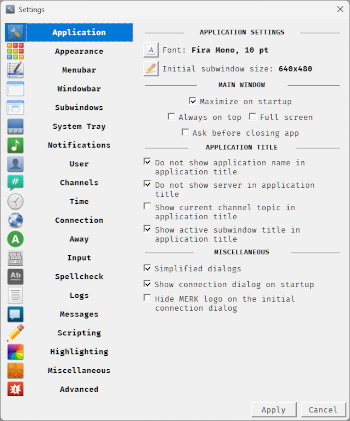
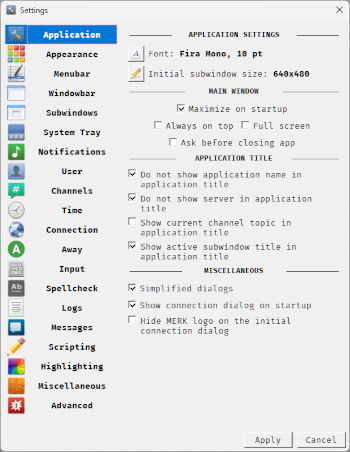
Tweaks to settings dialog

diff --git a/README.html b/README.html
@@ -1,4 +1,4 @@
-<h1>MERK 0.050.714</h1>
+<h1>MERK 0.050.715</h1>
 
 <p><a href="https://github.com/nutjob-laboratories/merk">Official source code repository</a></p>
 <h1 id="table-of-contents">Table of contents</h1>
@@ -14,7 +14,7 @@
 <li><a href="#does-merk-need-any-help">Does MERK need any help?</a></li>
 </ul>
 <h1 id="summary">Summary</h1>
-<p><strong>MERK</strong> is a graphical <a href="https://www.gnu.org/licenses/gpl-3.0.en.html">open source</a> <a href="https://en.wikipedia.org/wiki/Internet_Relay_Chat">Internet relay chat</a> client. The current development version is <strong>0.050.714</strong>. It uses a <a href="https://en.wikipedia.org/wiki/Multiple-document_interface">multiple-document interface</a>, much like the popular Windows IRC client <a href="https://www.mirc.com/">mIRC</a>.  <strong>MERK</strong> is written in Python 3, using the <a href="https://pypi.org/project/PyQt5/">PyQt5</a> and <a href="https://twistedmatrix.com/trac/">Twisted</a> libraries, and runs on both Windows and Linux. <strong>MERK</strong> is updated frequently with new features and bugfixes.</p>
+<p><strong>MERK</strong> is a graphical <a href="https://www.gnu.org/licenses/gpl-3.0.en.html">open source</a> <a href="https://en.wikipedia.org/wiki/Internet_Relay_Chat">Internet relay chat</a> client. The current development version is <strong>0.050.715</strong>. It uses a <a href="https://en.wikipedia.org/wiki/Multiple-document_interface">multiple-document interface</a>, much like the popular Windows IRC client <a href="https://www.mirc.com/">mIRC</a>.  <strong>MERK</strong> is written in Python 3, using the <a href="https://pypi.org/project/PyQt5/">PyQt5</a> and <a href="https://twistedmatrix.com/trac/">Twisted</a> libraries, and runs on both Windows and Linux. <strong>MERK</strong> is updated frequently with new features and bugfixes.</p>
 <p><strong>MERK</strong> is still in development, but it works, and can be used for most IRC activities.</p>
 <p>Join me on the official <strong>MERK</strong> IRC channel, <strong>#merk</strong> on the Libera Chat network! Connect to  Libera in the client as one of the built-in server suggestions, or at <strong>irc.libera.chat</strong>, port <strong>6667</strong> (you can also connect via SSL on port <strong>6697</strong>). Honestly, I work a lot, so I&#39;m almost always idle, but I pop in and chat a few times a day!</p>
 <h1 id="making-merk-portable-on-windows">Making MERK Portable on Windows</h1>

diff --git a/merk/resources/README.html b/merk/resources/README.html
@@ -1,4 +1,4 @@
-<h1>MERK 0.050.714</h1>
+<h1>MERK 0.050.715</h1>
 
 <p><a href="https://github.com/nutjob-laboratories/merk">Official source code repository</a></p>
 <h1 id="table-of-contents">Table of contents</h1>
@@ -14,7 +14,7 @@
 <li><a href="#does-merk-need-any-help">Does MERK need any help?</a></li>
 </ul>
 <h1 id="summary">Summary</h1>
-<p><strong>MERK</strong> is a graphical <a href="https://www.gnu.org/licenses/gpl-3.0.en.html">open source</a> <a href="https://en.wikipedia.org/wiki/Internet_Relay_Chat">Internet relay chat</a> client. The current development version is <strong>0.050.714</strong>. It uses a <a href="https://en.wikipedia.org/wiki/Multiple-document_interface">multiple-document interface</a>, much like the popular Windows IRC client <a href="https://www.mirc.com/">mIRC</a>.  <strong>MERK</strong> is written in Python 3, using the <a href="https://pypi.org/project/PyQt5/">PyQt5</a> and <a href="https://twistedmatrix.com/trac/">Twisted</a> libraries, and runs on both Windows and Linux. <strong>MERK</strong> is updated frequently with new features and bugfixes.</p>
+<p><strong>MERK</strong> is a graphical <a href="https://www.gnu.org/licenses/gpl-3.0.en.html">open source</a> <a href="https://en.wikipedia.org/wiki/Internet_Relay_Chat">Internet relay chat</a> client. The current development version is <strong>0.050.715</strong>. It uses a <a href="https://en.wikipedia.org/wiki/Multiple-document_interface">multiple-document interface</a>, much like the popular Windows IRC client <a href="https://www.mirc.com/">mIRC</a>.  <strong>MERK</strong> is written in Python 3, using the <a href="https://pypi.org/project/PyQt5/">PyQt5</a> and <a href="https://twistedmatrix.com/trac/">Twisted</a> libraries, and runs on both Windows and Linux. <strong>MERK</strong> is updated frequently with new features and bugfixes.</p>
 <p><strong>MERK</strong> is still in development, but it works, and can be used for most IRC activities.</p>
 <p>Join me on the official <strong>MERK</strong> IRC channel, <strong>#merk</strong> on the Libera Chat network! Connect to  Libera in the client as one of the built-in server suggestions, or at <strong>irc.libera.chat</strong>, port <strong>6667</strong> (you can also connect via SSL on port <strong>6697</strong>). Honestly, I work a lot, so I&#39;m almost always idle, but I pop in and chat a few times a day!</p>
 <h1 id="making-merk-portable-on-windows">Making MERK Portable on Windows</h1>

diff --git a/merk/dialog/settings.py b/merk/dialog/settings.py
@@ -1510,11 +1510,10 @@ class Dialog(QDialog):
 		self.changed = QLabel("<b>Settings changed.</b>&nbsp;&nbsp;")
 
 		fm = QFontMetrics(self.font())
-		fwidth = fm.width('X') * 27
+		fwidth = fm.width('X') * 22
 		self.selector.setMaximumWidth(fwidth)
 
-		# add_factor = 10
-		add_factor = 14
+		add_factor = 13
 		self.selector.setIconSize(QSize(fm.height()+add_factor,fm.height()+add_factor))
 
 		self.selector.itemClicked.connect(self.selectorClick)

diff --git a/merk/resources/version.py b/merk/resources/version.py
@@ -1,1 +1,1 @@
-APPLICATION_VERSION = "0.050.714"
+APPLICATION_VERSION = "0.050.715"

diff --git a/README.md b/README.md
@@ -3,7 +3,7 @@
   <b><big>Open Source IRC Client</big></b><br>
   <i>A multiple-document interface IRC client for Windows and Linux</i><br>
   <b><big>Current stable release: <a href="https://github.com/nutjob-laboratories/merk/releases/tag/0.050.700">MERK 0.050.700</a></big></b><br>
-  <b>Current development version: 0.050.714</b><br><br>
+  <b>Current development version: 0.050.715</b><br><br>
   <b><a href="https://gofund.me/ae062139">Help Fund MERK!</a></b><br>
 </p>
 
@@ -30,13 +30,13 @@ All files are packed in [ZIP archive files](https://en.wikipedia.org/wiki/ZIP_(f
 | :----:    | :----:    | :----:    |
 | User Guide |  PDF  | [MERK User Guide](./MERK_User_Guide.pdf)  |
 | Current Release |  -  | [MERK 0.050.700 Release](https://github.com/nutjob-laboratories/merk/releases/tag/0.050.700)  |
-| Zip Archive|  Cross-platform  | [Download MERK 0.050.714 (12.03 MB)](https://www.dropbox.com/scl/fi/pf9p7ltb3uufm5akjz7l0/merk-latest.zip?rlkey=3caodopybbcxr4p9grxygxzym&st=01zsuura&dl=1)  |
-| Zip Archive|  Windows EXE | [Download MERK 0.050.714 (48.86 MB)](https://www.dropbox.com/scl/fi/4w9ufyknzac24o06710bi/merk-windows-latest.zip?rlkey=zmir67l3klg8mw0omxayzmssc&st=vb69tsdi&dl=1)|
-|   Windows Installer|  Windows Setup | [Download MERK 0.050.714 (46.03 MB)](https://www.dropbox.com/scl/fi/0u1vcg5xuntzs2b16e01b/merk_setup.zip?rlkey=8avj1gyed3txz1nfj9ev41mmh&st=zlve4c1o&dl=1)|
+| Zip Archive|  Cross-platform  | [Download MERK 0.050.715 (12.03 MB)](https://www.dropbox.com/scl/fi/pf9p7ltb3uufm5akjz7l0/merk-latest.zip?rlkey=3caodopybbcxr4p9grxygxzym&st=01zsuura&dl=1)  |
+| Zip Archive|  Windows EXE | [Download MERK 0.050.715 (48.86 MB)](https://www.dropbox.com/scl/fi/4w9ufyknzac24o06710bi/merk-windows-latest.zip?rlkey=zmir67l3klg8mw0omxayzmssc&st=vb69tsdi&dl=1)|
+|   Windows Installer|  Windows Setup | [Download MERK 0.050.715 (46.03 MB)](https://www.dropbox.com/scl/fi/0u1vcg5xuntzs2b16e01b/merk_setup.zip?rlkey=8avj1gyed3txz1nfj9ev41mmh&st=zlve4c1o&dl=1)|
 
 # Summary
   
-**MERK** is a graphical [open source](https://www.gnu.org/licenses/gpl-3.0.en.html) [Internet relay chat](https://en.wikipedia.org/wiki/Internet_Relay_Chat) client. The current development version is **0.050.714**. It uses a [multiple-document interface](https://en.wikipedia.org/wiki/Multiple-document_interface), much like the popular Windows IRC client [mIRC](https://www.mirc.com/).  **MERK** is written in Python 3, using the [PyQt5](https://pypi.org/project/PyQt5/) and [Twisted](https://twistedmatrix.com/trac/) libraries, and runs on both Windows and Linux. **MERK** is updated frequently with new features and bugfixes.
+**MERK** is a graphical [open source](https://www.gnu.org/licenses/gpl-3.0.en.html) [Internet relay chat](https://en.wikipedia.org/wiki/Internet_Relay_Chat) client. The current development version is **0.050.715**. It uses a [multiple-document interface](https://en.wikipedia.org/wiki/Multiple-document_interface), much like the popular Windows IRC client [mIRC](https://www.mirc.com/).  **MERK** is written in Python 3, using the [PyQt5](https://pypi.org/project/PyQt5/) and [Twisted](https://twistedmatrix.com/trac/) libraries, and runs on both Windows and Linux. **MERK** is updated frequently with new features and bugfixes.
 
 **MERK** is still in development, but it works, and can be used for most IRC activities. [The current stable release of **MERK** is version 0.050.700](https://github.com/nutjob-laboratories/merk/releases/tag/0.050.700). **MERK** has a user guide, which can be [viewed here](./MERK_User_Guide.pdf).
 
@@ -118,7 +118,7 @@ There are three libraries that comes bundled with **MERK**:
 
 # Screenshots
 
-<p><small><i>Screenshots may not reflect the current release (0.050.700), and may reflect the current development version (0.050.714). More screenshots are in the <a href="./MERK_User_Guide.pdf">MERK User Guide</a>.</i></small></p>
+<p><small><i>Screenshots may not reflect the current release (0.050.700), and may reflect the current development version (0.050.715). More screenshots are in the <a href="./MERK_User_Guide.pdf">MERK User Guide</a>.</i></small></p>
 
 <p align="center">
 <center><a href="./graphics/screenshot_big.png"><img src="./graphics/screenshot1.png"></a></center></br>
